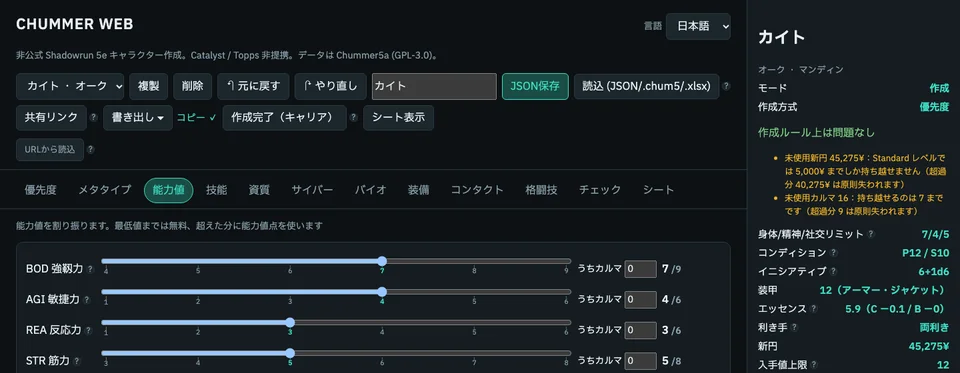
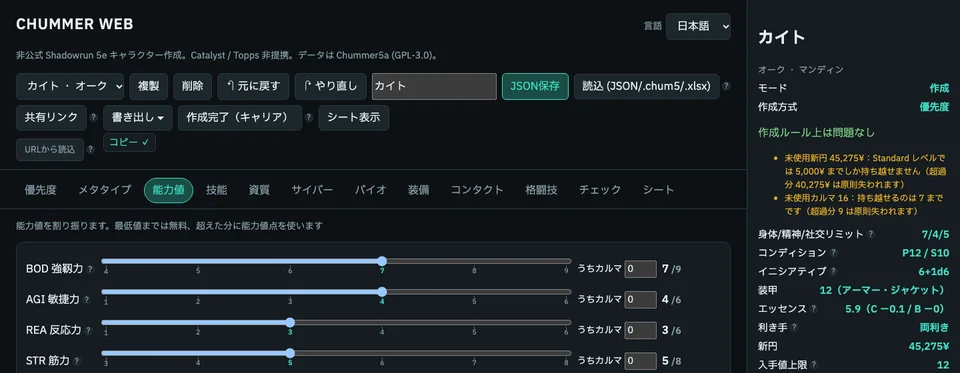
docs(manual): re-shoot the copy clip with コピー ✓ under the button [skip changelog] (#847)
#845 moved コピー ✓ from beside 書き出し to under it. The clip and the
manual's text now say so. The other stills re-shot identical or within
encoding noise (under 0.05% of pixels) and are left as they were.

Changed region(s): [[0.1875, 0.2654, 0.4688, 0.3539], [0.0938, 0.3539, 0.1562, 0.4129]]

diff --git a/frontend/public/manual/index.html b/frontend/public/manual/index.html
@@ -900,12 +900,12 @@
             />
             <img
               src="img/anim-export-copy.webp"
-              alt="操作の動画。書き出しメニューを開いてココフォリアを押すと、メニューが閉じて「書き出し ▾」の横に「コピー ✓」が出る"
+              alt="操作の動画。書き出しメニューを開いてココフォリアを押すと、メニューが閉じて「書き出し ▾」の下に「コピー ✓」が出る"
             />
           </picture>
           <figcaption>
             ココフォリア・チャットパレットなどのコピーは、メニューが閉じたあと「書き出し
-            ▾」の横に「コピー ✓」が出れば完了です（動画）。そのまま VTT に貼り付けます。
+            ▾」の下に「コピー ✓」が出れば完了です（動画）。そのまま VTT に貼り付けます。
           </figcaption>
         </figure>
         <ul>
